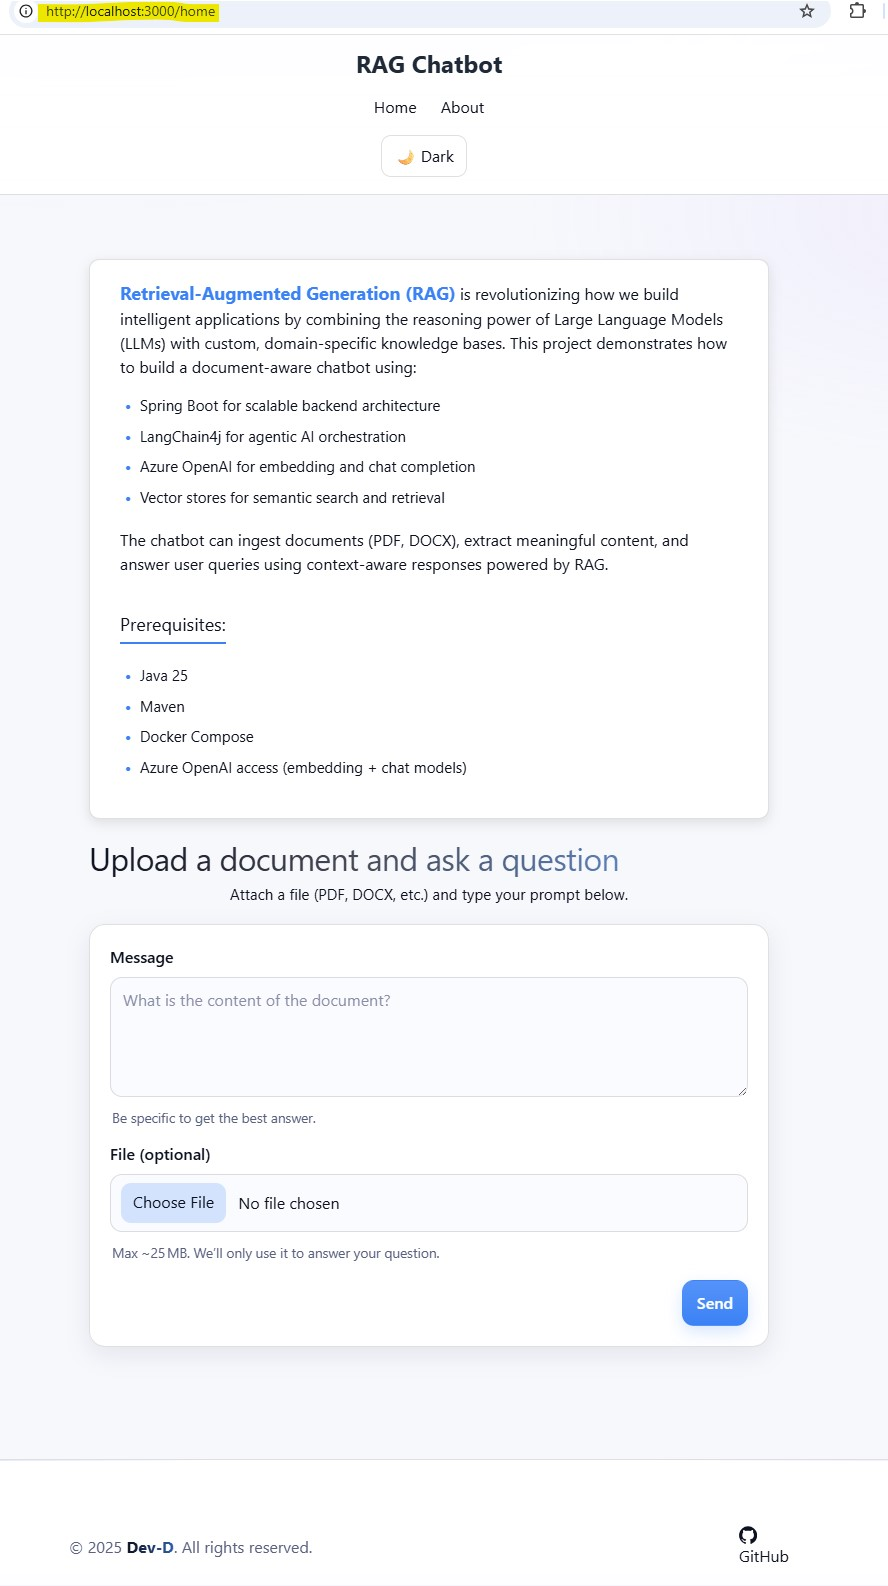
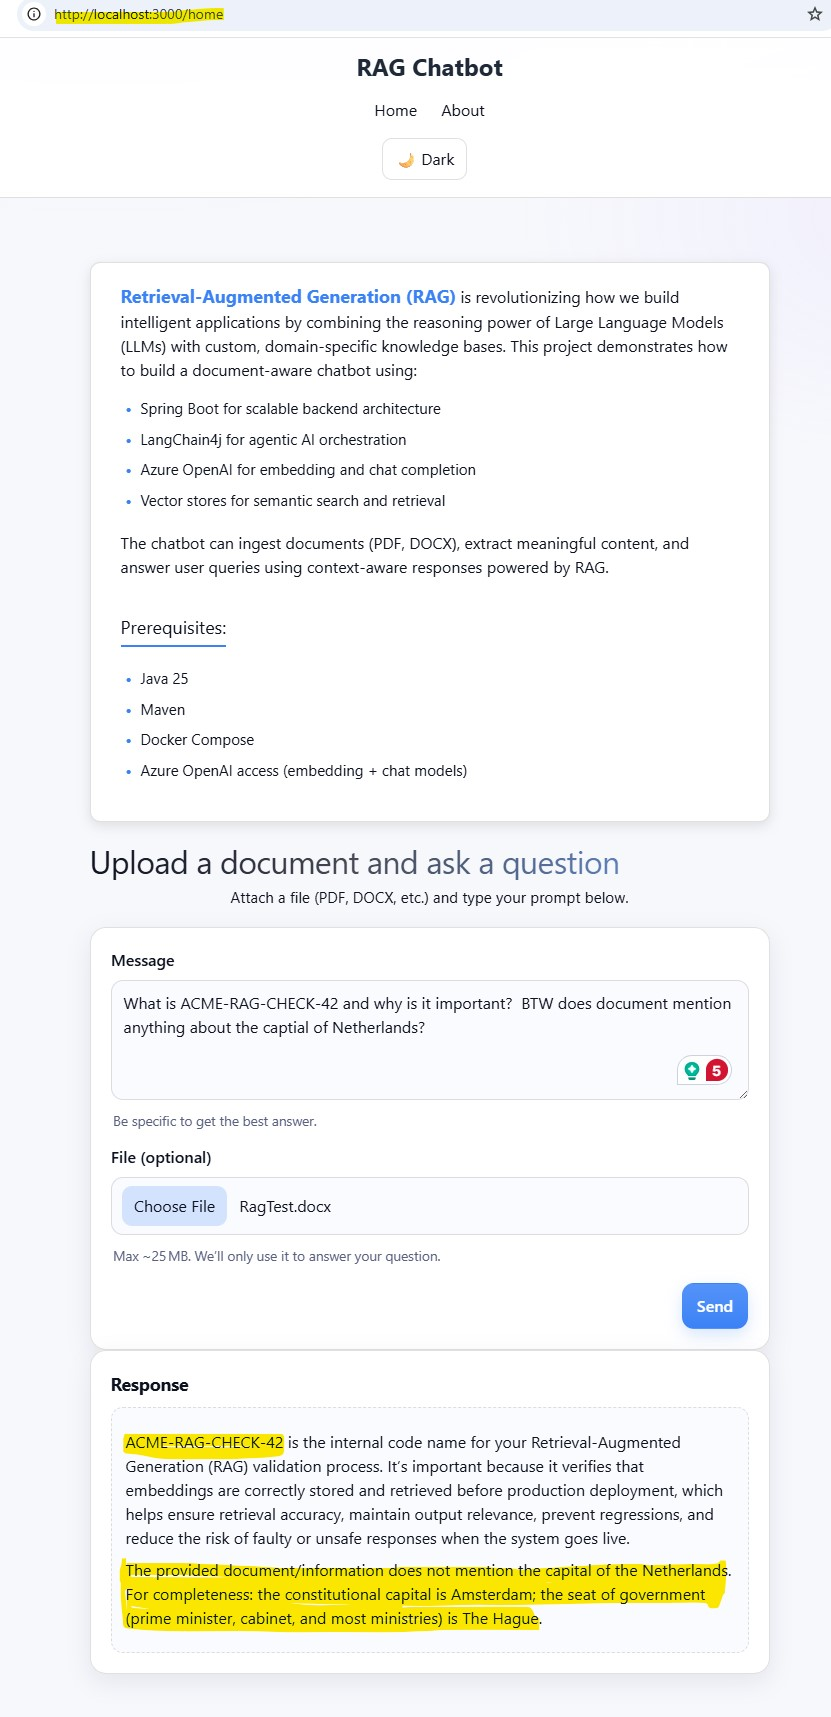
added Controlled components ensure React keeps track of field values

diff --git a/chatbot-ui/app/form-client.tsx b/chatbot-ui/app/form-client.tsx
@@ -1,4 +1,3 @@
-// app/FormClient.tsx
 "use client";
 
 import * as React from "react";
@@ -37,37 +36,46 @@ export default function FormClient({
 }: {
   action: (state: LoadState, formData: FormData) => Promise<LoadState>;
 }) {
-  const [state, formAction] = useActionState(action, initialState);
+  const [state, setState] = React.useState<LoadState>(initialState);
+  const [message, setMessage] = React.useState("");
+  const [file, setFile] = React.useState<File | null>(null);
+
+  const handleSubmit = async (e: React.FormEvent<HTMLFormElement>) => {
+    e.preventDefault();
+
+    const formData = new FormData();
+    formData.append("message", message);
+    if (file) {
+      formData.append("file", file);
+    }
+
+    const result = await action(state, formData);
+    setState(result);
+  };
 
   return (
     <div className="shell">
-
-
-<div className="rag-info-container">
-  <p>
-    <strong>Retrieval-Augmented Generation (RAG)</strong> is revolutionizing how we build intelligent applications by combining the reasoning power of Large Language Models (LLMs) with custom, domain-specific knowledge bases. This project demonstrates how to build a document-aware chatbot using:
-  </p>
-
-  <ul>
-    <li>Spring Boot for scalable backend architecture</li>
-    <li>LangChain4j for agentic AI orchestration</li>
-    <li>Azure OpenAI for embedding and chat completion</li>
-    <li>Vector stores for semantic search and retrieval</li>
-  </ul>
-
-  <p>
-    The chatbot can ingest documents (PDF, DOCX), extract meaningful content, and answer user queries using context-aware responses powered by RAG.
-  </p>
-
-  <h3>Prerequisites:</h3>
-  <ul>
-    <li>Java 25</li>
-    <li>Maven</li>
-    <li>Docker Compose</li>
-    <li>Azure OpenAI access (embedding + chat models)</li>
-  </ul>
-</div>
-
+      <div className="rag-info-container">
+        <p>
+          <strong>Retrieval-Augmented Generation (RAG)</strong> is revolutionizing how we build intelligent applications by combining the reasoning power of Large Language Models (LLMs) with custom, domain-specific knowledge bases. This project demonstrates how to build a document-aware chatbot using:
+        </p>
+        <ul>
+          <li>Spring Boot for scalable backend architecture</li>
+          <li>LangChain4j for agentic AI orchestration</li>
+          <li>Azure OpenAI for embedding and chat completion</li>
+          <li>Vector stores for semantic search and retrieval</li>
+        </ul>
+        <p>
+          The chatbot can ingest documents (PDF, DOCX), extract meaningful content, and answer user queries using context-aware responses powered by RAG.
+        </p>
+        <h3>Prerequisites:</h3>
+        <ul>
+          <li>Java 25</li>
+          <li>Maven</li>
+          <li>Docker Compose</li>
+          <li>Azure OpenAI access (embedding + chat models)</li>
+        </ul>
+      </div>
 
       <header className="header">
         <h1 className="title">Upload a document and ask a question</h1>
@@ -77,7 +85,7 @@ export default function FormClient({
       </header>
 
       <section className="card">
-        <form action={formAction} className="form" noValidate>
+        <form onSubmit={handleSubmit} className="form" noValidate>
           <div className="field">
             <label className="label" htmlFor="message">
               Message
@@ -89,6 +97,8 @@ export default function FormClient({
               rows={4}
               placeholder="What is the content of the document?"
               required
+              value={message}
+              onChange={(e) => setMessage(e.target.value)}
             />
             <p className="help">Be specific to get the best answer.</p>
           </div>
@@ -97,7 +107,13 @@ export default function FormClient({
             <label className="label" htmlFor="file">
               File (optional)
             </label>
-            <input className="input file" id="file" name="file" type="file" />
+            <input
+              className="input file"
+              id="file"
+              name="file"
+              type="file"
+              onChange={(e) => setFile(e.target.files?.[0] || null)}
+            />
             <p className="help">Max ~25 MB. We’ll only use it to answer your question.</p>
           </div>
 
